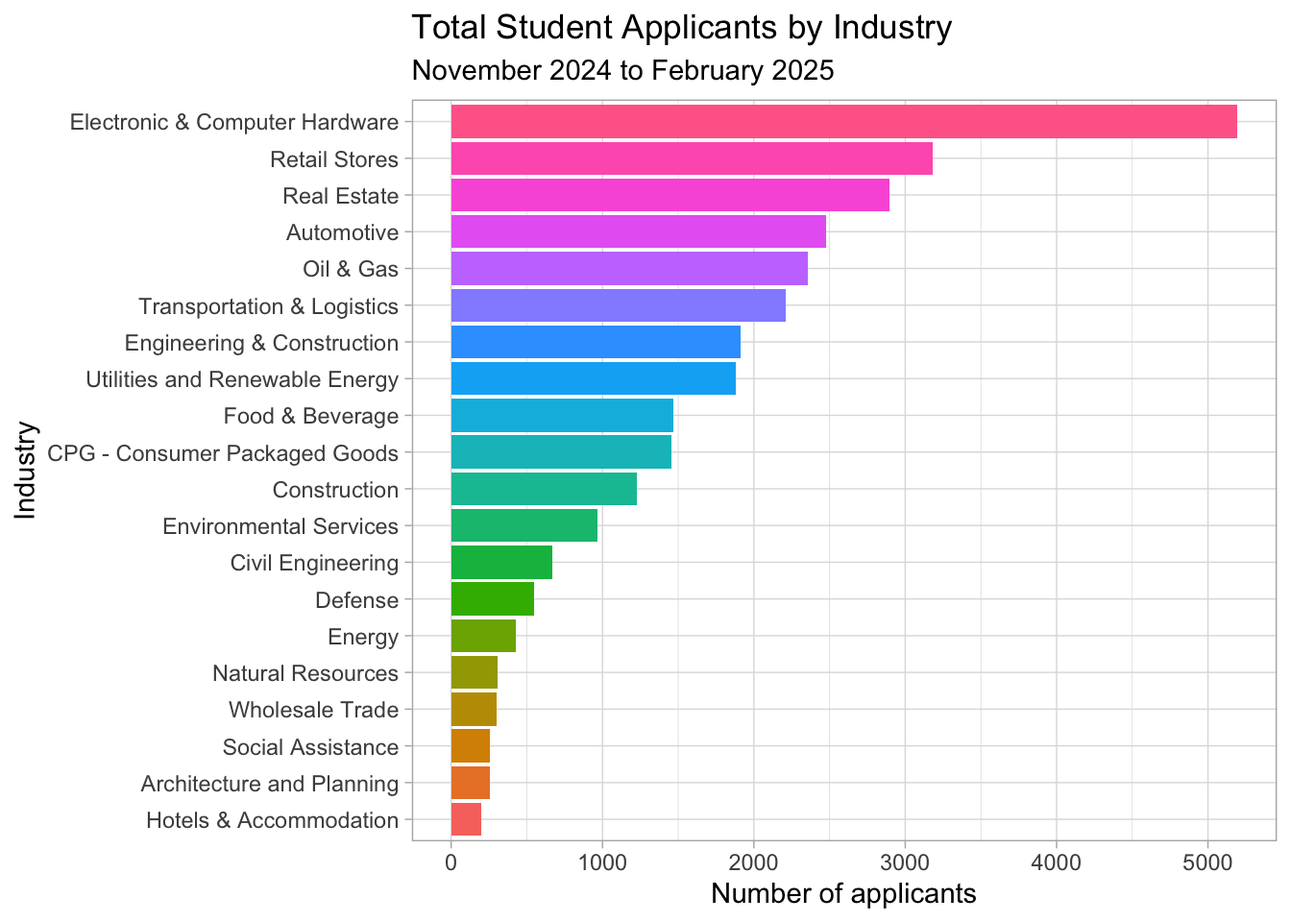
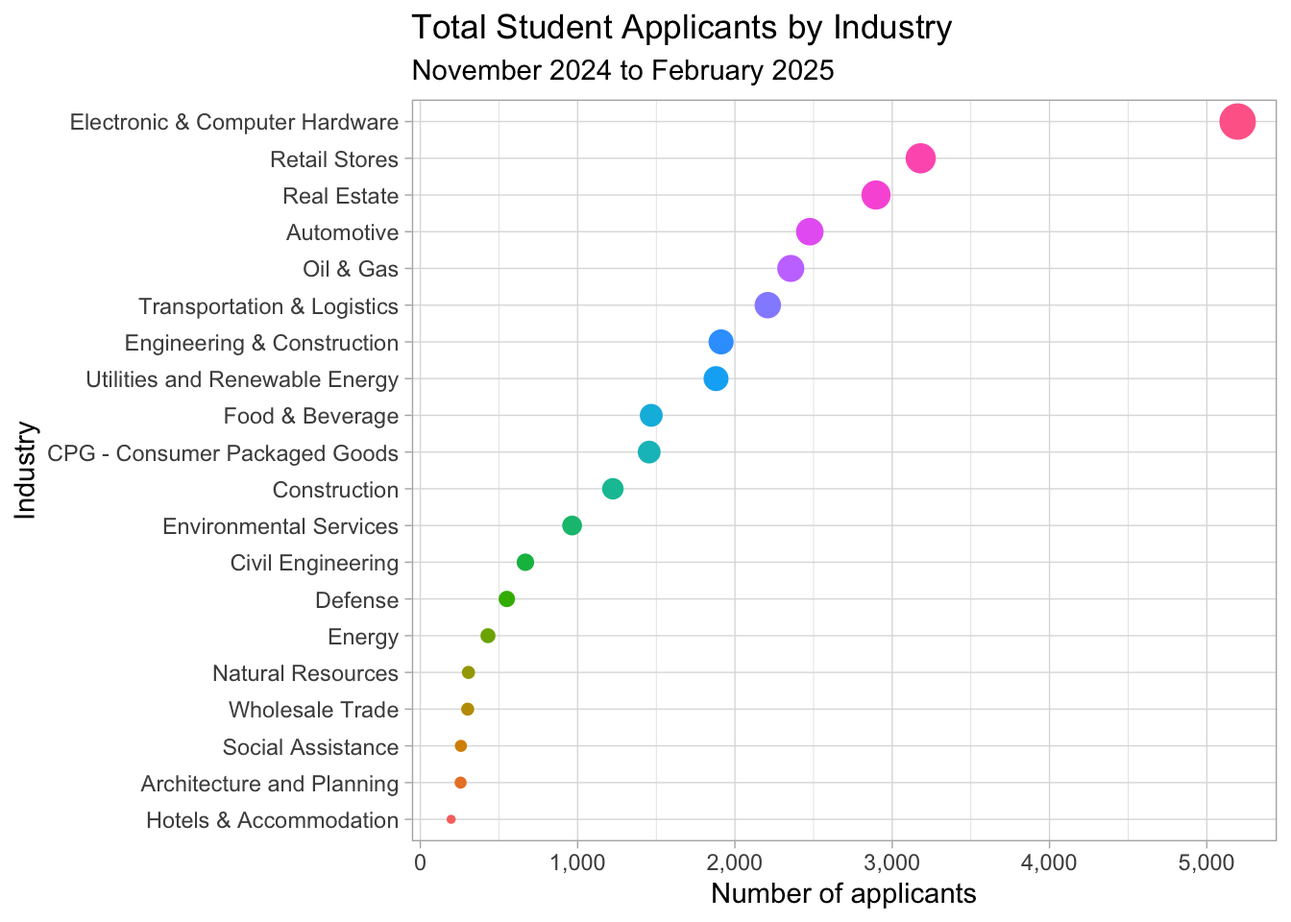
more edits

diff --git a/index.html b/index.html
@@ -7,7 +7,7 @@
 <meta name="viewport" content="width=device-width, initial-scale=1.0, user-scalable=yes">
 
 
-<title>LTarin portfolio</title>
+<title>Letty Tarin</title>
 <style>
 code{white-space: pre-wrap;}
 span.smallcaps{font-variant: small-caps;}
@@ -82,6 +82,7 @@ pre > code.sourceCode > span > a:first-child::before { text-decoration: underlin
   <li><a href="#overview" id="toc-overview" class="nav-link active" data-scroll-target="#overview">Overview</a>
   <ul class="collapse">
   <li><a href="#march-2024" id="toc-march-2024" class="nav-link" data-scroll-target="#march-2024">March 2024</a></li>
+  <li><a href="#applicants-by-industry" id="toc-applicants-by-industry" class="nav-link" data-scroll-target="#applicants-by-industry">Applicants by Industry</a></li>
   <li><a href="#employer-industries" id="toc-employer-industries" class="nav-link" data-scroll-target="#employer-industries">Employer Industries</a></li>
   <li><a href="#applications-2021-2024" id="toc-applications-2021-2024" class="nav-link" data-scroll-target="#applications-2021-2024">Applications 2021-2024</a></li>
   </ul></li>
@@ -92,7 +93,7 @@ pre > code.sourceCode > span > a:first-child::before { text-decoration: underlin
 
 <header id="title-block-header" class="quarto-title-block default">
 <div class="quarto-title">
-<h1 class="title">LTarin portfolio</h1>
+<h1 class="title">Letty Tarin</h1>
 </div>
 
 
@@ -109,63 +110,34 @@ pre > code.sourceCode > span > a:first-child::before { text-decoration: underlin
 </header>
 
 
-<div class="cell">
-<div class="sourceCode cell-code" id="cb1"><pre class="sourceCode r code-with-copy"><code class="sourceCode r"><span id="cb1-1"><a href="#cb1-1" aria-hidden="true" tabindex="-1"></a><span class="fu">library</span>(tidyverse)</span></code><button title="Copy to Clipboard" class="code-copy-button"><i class="bi"></i></button></pre></div>
-<div class="cell-output cell-output-stderr">
-<pre><code>── Attaching core tidyverse packages ──────────────────────── tidyverse 2.0.0 ──
-✔ dplyr     1.1.4     ✔ readr     2.1.5
-✔ forcats   1.0.0     ✔ stringr   1.5.1
-✔ ggplot2   3.5.2     ✔ tibble    3.2.1
-✔ lubridate 1.9.4     ✔ tidyr     1.3.1
-✔ purrr     1.0.4     
-── Conflicts ────────────────────────────────────────── tidyverse_conflicts() ──
-✖ dplyr::filter() masks stats::filter()
-✖ dplyr::lag()    masks stats::lag()
-ℹ Use the conflicted package (&lt;http://conflicted.r-lib.org/&gt;) to force all conflicts to become errors</code></pre>
-</div>
-<div class="sourceCode cell-code" id="cb3"><pre class="sourceCode r code-with-copy"><code class="sourceCode r"><span id="cb3-1"><a href="#cb3-1" aria-hidden="true" tabindex="-1"></a><span class="fu">library</span>(scales)</span></code><button title="Copy to Clipboard" class="code-copy-button"><i class="bi"></i></button></pre></div>
-<div class="cell-output cell-output-stderr">
-<pre><code>
-Attaching package: 'scales'
-
-The following object is masked from 'package:purrr':
-
-    discard
-
-The following object is masked from 'package:readr':
-
-    col_factor</code></pre>
-</div>
-<div class="sourceCode cell-code" id="cb5"><pre class="sourceCode r code-with-copy"><code class="sourceCode r"><span id="cb5-1"><a href="#cb5-1" aria-hidden="true" tabindex="-1"></a><span class="fu">theme_set</span>(<span class="fu">theme_light</span>())</span></code><button title="Copy to Clipboard" class="code-copy-button"><i class="bi"></i></button></pre></div>
-</div>
 <section id="overview" class="level2">
 <h2 class="anchored" data-anchor-id="overview">Overview</h2>
 <p>Below are a few samples of analysis I’ve completed. All analysis was done in the RStudio IDE. Click the <strong>Code</strong> button above the figure to view the code used to create each graph.</p>
 <section id="march-2024" class="level3">
 <h3 class="anchored" data-anchor-id="march-2024">March 2024</h3>
-<p>This analysis was to explore the top industries and applicants in March 2024. The first graph is a visualization of applicants by school year, including advanced degrees and alumni. The second graph is visualizes the total applicants by gender.</p>
+<p>This analysis was to explore the top industries and applicants in March 2024. The first graph is a visualization of applicants by school year, including advanced degrees and alumni. The second graph visualizes the total applicants by gender.</p>
 <div class="cell" data-cap-location="margin">
 <details class="code-fold">
 <summary>Code</summary>
-<div class="sourceCode cell-code" id="cb6" data-cap-location="margin"><pre class="sourceCode r code-with-copy"><code class="sourceCode r"><span id="cb6-1"><a href="#cb6-1" aria-hidden="true" tabindex="-1"></a>sy_longer <span class="ot">&lt;-</span> march_school_year <span class="sc">|&gt;</span> </span>
-<span id="cb6-2"><a href="#cb6-2" aria-hidden="true" tabindex="-1"></a>  <span class="fu">pivot_longer</span>(</span>
-<span id="cb6-3"><a href="#cb6-3" aria-hidden="true" tabindex="-1"></a>    <span class="at">cols =</span> alumni<span class="sc">:</span>sophomore,</span>
-<span id="cb6-4"><a href="#cb6-4" aria-hidden="true" tabindex="-1"></a>    <span class="at">names_to =</span> <span class="st">"school_year"</span>,</span>
-<span id="cb6-5"><a href="#cb6-5" aria-hidden="true" tabindex="-1"></a>    <span class="at">values_to =</span> <span class="st">"applicants"</span>,</span>
-<span id="cb6-6"><a href="#cb6-6" aria-hidden="true" tabindex="-1"></a>    <span class="at">values_drop_na =</span> <span class="cn">TRUE</span></span>
-<span id="cb6-7"><a href="#cb6-7" aria-hidden="true" tabindex="-1"></a>  )</span>
-<span id="cb6-8"><a href="#cb6-8" aria-hidden="true" tabindex="-1"></a></span>
-<span id="cb6-9"><a href="#cb6-9" aria-hidden="true" tabindex="-1"></a>sy_longer <span class="sc">|&gt;</span> </span>
-<span id="cb6-10"><a href="#cb6-10" aria-hidden="true" tabindex="-1"></a>  <span class="fu">mutate</span>(<span class="at">school_year =</span> school_year <span class="sc">|&gt;</span> <span class="fu">fct_infreq</span>() <span class="sc">|&gt;</span> <span class="fu">fct_rev</span>()) <span class="sc">|&gt;</span> </span>
-<span id="cb6-11"><a href="#cb6-11" aria-hidden="true" tabindex="-1"></a>  <span class="fu">ggplot</span>(<span class="fu">aes</span>(school_year, <span class="at">fill =</span> school_year)) <span class="sc">+</span></span>
-<span id="cb6-12"><a href="#cb6-12" aria-hidden="true" tabindex="-1"></a>  <span class="fu">geom_bar</span>(<span class="at">show.legend =</span> <span class="cn">FALSE</span>)<span class="sc">+</span></span>
-<span id="cb6-13"><a href="#cb6-13" aria-hidden="true" tabindex="-1"></a>  <span class="fu">scale_color_brewer</span>(<span class="at">palette =</span> <span class="st">"Set1"</span>)<span class="sc">+</span></span>
-<span id="cb6-14"><a href="#cb6-14" aria-hidden="true" tabindex="-1"></a>  <span class="fu">labs</span>(</span>
-<span id="cb6-15"><a href="#cb6-15" aria-hidden="true" tabindex="-1"></a>    <span class="at">x =</span> <span class="st">""</span>,</span>
-<span id="cb6-16"><a href="#cb6-16" aria-hidden="true" tabindex="-1"></a>    <span class="at">y =</span> <span class="st">""</span>,</span>
-<span id="cb6-17"><a href="#cb6-17" aria-hidden="true" tabindex="-1"></a>    <span class="at">title =</span> <span class="st">"Number of Applicants by School Year"</span>,</span>
-<span id="cb6-18"><a href="#cb6-18" aria-hidden="true" tabindex="-1"></a>    <span class="at">subtitle =</span> <span class="st">"March 2024"</span></span>
-<span id="cb6-19"><a href="#cb6-19" aria-hidden="true" tabindex="-1"></a>  )</span></code><button title="Copy to Clipboard" class="code-copy-button"><i class="bi"></i></button></pre></div>
+<div class="sourceCode cell-code" id="cb1" data-cap-location="margin"><pre class="sourceCode r code-with-copy"><code class="sourceCode r"><span id="cb1-1"><a href="#cb1-1" aria-hidden="true" tabindex="-1"></a>sy_longer <span class="ot">&lt;-</span> march_school_year <span class="sc">|&gt;</span> </span>
+<span id="cb1-2"><a href="#cb1-2" aria-hidden="true" tabindex="-1"></a>  <span class="fu">pivot_longer</span>(</span>
+<span id="cb1-3"><a href="#cb1-3" aria-hidden="true" tabindex="-1"></a>    <span class="at">cols =</span> alumni<span class="sc">:</span>sophomore,</span>
+<span id="cb1-4"><a href="#cb1-4" aria-hidden="true" tabindex="-1"></a>    <span class="at">names_to =</span> <span class="st">"school_year"</span>,</span>
+<span id="cb1-5"><a href="#cb1-5" aria-hidden="true" tabindex="-1"></a>    <span class="at">values_to =</span> <span class="st">"applicants"</span>,</span>
+<span id="cb1-6"><a href="#cb1-6" aria-hidden="true" tabindex="-1"></a>    <span class="at">values_drop_na =</span> <span class="cn">TRUE</span></span>
+<span id="cb1-7"><a href="#cb1-7" aria-hidden="true" tabindex="-1"></a>  )</span>
+<span id="cb1-8"><a href="#cb1-8" aria-hidden="true" tabindex="-1"></a></span>
+<span id="cb1-9"><a href="#cb1-9" aria-hidden="true" tabindex="-1"></a>sy_longer <span class="sc">|&gt;</span> </span>
+<span id="cb1-10"><a href="#cb1-10" aria-hidden="true" tabindex="-1"></a>  <span class="fu">mutate</span>(<span class="at">school_year =</span> school_year <span class="sc">|&gt;</span> <span class="fu">fct_infreq</span>() <span class="sc">|&gt;</span> <span class="fu">fct_rev</span>()) <span class="sc">|&gt;</span> </span>
+<span id="cb1-11"><a href="#cb1-11" aria-hidden="true" tabindex="-1"></a>  <span class="fu">ggplot</span>(<span class="fu">aes</span>(school_year, <span class="at">fill =</span> school_year)) <span class="sc">+</span></span>
+<span id="cb1-12"><a href="#cb1-12" aria-hidden="true" tabindex="-1"></a>  <span class="fu">geom_bar</span>(<span class="at">show.legend =</span> <span class="cn">FALSE</span>)<span class="sc">+</span></span>
+<span id="cb1-13"><a href="#cb1-13" aria-hidden="true" tabindex="-1"></a>  <span class="fu">scale_color_brewer</span>(<span class="at">palette =</span> <span class="st">"Set1"</span>)<span class="sc">+</span></span>
+<span id="cb1-14"><a href="#cb1-14" aria-hidden="true" tabindex="-1"></a>  <span class="fu">labs</span>(</span>
+<span id="cb1-15"><a href="#cb1-15" aria-hidden="true" tabindex="-1"></a>    <span class="at">x =</span> <span class="st">""</span>,</span>
+<span id="cb1-16"><a href="#cb1-16" aria-hidden="true" tabindex="-1"></a>    <span class="at">y =</span> <span class="st">""</span>,</span>
+<span id="cb1-17"><a href="#cb1-17" aria-hidden="true" tabindex="-1"></a>    <span class="at">title =</span> <span class="st">"Number of Applicants by School Year"</span>,</span>
+<span id="cb1-18"><a href="#cb1-18" aria-hidden="true" tabindex="-1"></a>    <span class="at">subtitle =</span> <span class="st">"March 2024"</span></span>
+<span id="cb1-19"><a href="#cb1-19" aria-hidden="true" tabindex="-1"></a>  )</span></code><button title="Copy to Clipboard" class="code-copy-button"><i class="bi"></i></button></pre></div>
 </details>
 <div class="cell-output-display">
 <div>
@@ -176,25 +148,25 @@ The following object is masked from 'package:readr':
 </div>
 <details class="code-fold">
 <summary>Code</summary>
-<div class="sourceCode cell-code" id="cb7" data-cap-location="margin"><pre class="sourceCode r code-with-copy"><code class="sourceCode r"><span id="cb7-1"><a href="#cb7-1" aria-hidden="true" tabindex="-1"></a>march_longer <span class="ot">&lt;-</span> march_gender <span class="sc">|&gt;</span> </span>
-<span id="cb7-2"><a href="#cb7-2" aria-hidden="true" tabindex="-1"></a>  <span class="fu">pivot_longer</span>(</span>
-<span id="cb7-3"><a href="#cb7-3" aria-hidden="true" tabindex="-1"></a>    <span class="at">cols =</span> female<span class="sc">:</span>male,</span>
-<span id="cb7-4"><a href="#cb7-4" aria-hidden="true" tabindex="-1"></a>    <span class="at">names_to =</span> <span class="st">"gender"</span>,</span>
-<span id="cb7-5"><a href="#cb7-5" aria-hidden="true" tabindex="-1"></a>    <span class="at">values_to =</span> <span class="st">"applicants"</span>,</span>
-<span id="cb7-6"><a href="#cb7-6" aria-hidden="true" tabindex="-1"></a>    <span class="at">values_drop_na =</span> <span class="cn">TRUE</span></span>
-<span id="cb7-7"><a href="#cb7-7" aria-hidden="true" tabindex="-1"></a>  )</span>
-<span id="cb7-8"><a href="#cb7-8" aria-hidden="true" tabindex="-1"></a></span>
-<span id="cb7-9"><a href="#cb7-9" aria-hidden="true" tabindex="-1"></a>march_longer <span class="sc">|&gt;</span> </span>
-<span id="cb7-10"><a href="#cb7-10" aria-hidden="true" tabindex="-1"></a>  <span class="fu">drop_na</span>(job_type) <span class="sc">|&gt;</span> </span>
-<span id="cb7-11"><a href="#cb7-11" aria-hidden="true" tabindex="-1"></a>  <span class="fu">mutate</span>(<span class="at">job_type =</span> job_type <span class="sc">|&gt;</span> <span class="fu">fct_rev</span>()) <span class="sc">|&gt;</span> </span>
-<span id="cb7-12"><a href="#cb7-12" aria-hidden="true" tabindex="-1"></a>  <span class="fu">ggplot</span>(<span class="fu">aes</span>(job_type, <span class="at">fill =</span> gender)) <span class="sc">+</span></span>
-<span id="cb7-13"><a href="#cb7-13" aria-hidden="true" tabindex="-1"></a>  <span class="fu">geom_bar</span>(<span class="at">position =</span> <span class="st">"dodge"</span>)<span class="sc">+</span></span>
-<span id="cb7-14"><a href="#cb7-14" aria-hidden="true" tabindex="-1"></a>  <span class="fu">scale_color_brewer</span>(<span class="at">palette =</span> <span class="st">"Set1"</span>)<span class="sc">+</span></span>
-<span id="cb7-15"><a href="#cb7-15" aria-hidden="true" tabindex="-1"></a>  <span class="fu">labs</span>(<span class="at">x =</span> <span class="st">""</span>,</span>
-<span id="cb7-16"><a href="#cb7-16" aria-hidden="true" tabindex="-1"></a>       <span class="at">y =</span> <span class="st">""</span>,</span>
-<span id="cb7-17"><a href="#cb7-17" aria-hidden="true" tabindex="-1"></a>       <span class="at">fill =</span> <span class="st">"Gender"</span>,</span>
-<span id="cb7-18"><a href="#cb7-18" aria-hidden="true" tabindex="-1"></a>       <span class="at">title =</span> <span class="st">"Applicants by Job Type and Gender"</span>, </span>
-<span id="cb7-19"><a href="#cb7-19" aria-hidden="true" tabindex="-1"></a>       <span class="at">subtitle =</span> <span class="st">"March 2024"</span>)</span></code><button title="Copy to Clipboard" class="code-copy-button"><i class="bi"></i></button></pre></div>
+<div class="sourceCode cell-code" id="cb2" data-cap-location="margin"><pre class="sourceCode r code-with-copy"><code class="sourceCode r"><span id="cb2-1"><a href="#cb2-1" aria-hidden="true" tabindex="-1"></a>march_longer <span class="ot">&lt;-</span> march_gender <span class="sc">|&gt;</span> </span>
+<span id="cb2-2"><a href="#cb2-2" aria-hidden="true" tabindex="-1"></a>  <span class="fu">pivot_longer</span>(</span>
+<span id="cb2-3"><a href="#cb2-3" aria-hidden="true" tabindex="-1"></a>    <span class="at">cols =</span> female<span class="sc">:</span>male,</span>
+<span id="cb2-4"><a href="#cb2-4" aria-hidden="true" tabindex="-1"></a>    <span class="at">names_to =</span> <span class="st">"gender"</span>,</span>
+<span id="cb2-5"><a href="#cb2-5" aria-hidden="true" tabindex="-1"></a>    <span class="at">values_to =</span> <span class="st">"applicants"</span>,</span>
+<span id="cb2-6"><a href="#cb2-6" aria-hidden="true" tabindex="-1"></a>    <span class="at">values_drop_na =</span> <span class="cn">TRUE</span></span>
+<span id="cb2-7"><a href="#cb2-7" aria-hidden="true" tabindex="-1"></a>  )</span>
+<span id="cb2-8"><a href="#cb2-8" aria-hidden="true" tabindex="-1"></a></span>
+<span id="cb2-9"><a href="#cb2-9" aria-hidden="true" tabindex="-1"></a>march_longer <span class="sc">|&gt;</span> </span>
+<span id="cb2-10"><a href="#cb2-10" aria-hidden="true" tabindex="-1"></a>  <span class="fu">drop_na</span>(job_type) <span class="sc">|&gt;</span> </span>
+<span id="cb2-11"><a href="#cb2-11" aria-hidden="true" tabindex="-1"></a>  <span class="fu">mutate</span>(<span class="at">job_type =</span> job_type <span class="sc">|&gt;</span> <span class="fu">fct_rev</span>()) <span class="sc">|&gt;</span> </span>
+<span id="cb2-12"><a href="#cb2-12" aria-hidden="true" tabindex="-1"></a>  <span class="fu">ggplot</span>(<span class="fu">aes</span>(job_type, <span class="at">fill =</span> gender)) <span class="sc">+</span></span>
+<span id="cb2-13"><a href="#cb2-13" aria-hidden="true" tabindex="-1"></a>  <span class="fu">geom_bar</span>(<span class="at">position =</span> <span class="st">"dodge"</span>)<span class="sc">+</span></span>
+<span id="cb2-14"><a href="#cb2-14" aria-hidden="true" tabindex="-1"></a>  <span class="fu">scale_color_brewer</span>(<span class="at">palette =</span> <span class="st">"Set1"</span>)<span class="sc">+</span></span>
+<span id="cb2-15"><a href="#cb2-15" aria-hidden="true" tabindex="-1"></a>  <span class="fu">labs</span>(<span class="at">x =</span> <span class="st">""</span>,</span>
+<span id="cb2-16"><a href="#cb2-16" aria-hidden="true" tabindex="-1"></a>       <span class="at">y =</span> <span class="st">""</span>,</span>
+<span id="cb2-17"><a href="#cb2-17" aria-hidden="true" tabindex="-1"></a>       <span class="at">fill =</span> <span class="st">"Gender"</span>,</span>
+<span id="cb2-18"><a href="#cb2-18" aria-hidden="true" tabindex="-1"></a>       <span class="at">title =</span> <span class="st">"Applicants by Job Type and Gender"</span>, </span>
+<span id="cb2-19"><a href="#cb2-19" aria-hidden="true" tabindex="-1"></a>       <span class="at">subtitle =</span> <span class="st">"March 2024"</span>)</span></code><button title="Copy to Clipboard" class="code-copy-button"><i class="bi"></i></button></pre></div>
 </details>
 <div class="cell-output-display">
 <div>
@@ -204,26 +176,32 @@ The following object is masked from 'package:readr':
 </div>
 </div>
 </div>
+</section>
+<section id="applicants-by-industry" class="level3">
+<h3 class="anchored" data-anchor-id="applicants-by-industry">Applicants by Industry</h3>
+<p>This was completed to get a snapshot of engagement during the end of the fall semester.</p>
 <div class="cell">
 <details class="code-fold">
 <summary>Code</summary>
-<div class="sourceCode cell-code" id="cb8"><pre class="sourceCode r code-with-copy"><code class="sourceCode r"><span id="cb8-1"><a href="#cb8-1" aria-hidden="true" tabindex="-1"></a>applications <span class="ot">&lt;-</span> my_postings </span>
-<span id="cb8-2"><a href="#cb8-2" aria-hidden="true" tabindex="-1"></a></span>
-<span id="cb8-3"><a href="#cb8-3" aria-hidden="true" tabindex="-1"></a>applications <span class="sc">|&gt;</span> </span>
-<span id="cb8-4"><a href="#cb8-4" aria-hidden="true" tabindex="-1"></a><span class="fu">group_by</span>(industry) <span class="sc">|&gt;</span> </span>
-<span id="cb8-5"><a href="#cb8-5" aria-hidden="true" tabindex="-1"></a>  <span class="fu">summarize</span>(<span class="at">total =</span> <span class="fu">sum</span>(applications_count)) <span class="sc">|&gt;</span> </span>
-<span id="cb8-6"><a href="#cb8-6" aria-hidden="true" tabindex="-1"></a>  <span class="fu">arrange</span>(<span class="fu">desc</span>(total)) <span class="sc">%&gt;%</span> </span>
-<span id="cb8-7"><a href="#cb8-7" aria-hidden="true" tabindex="-1"></a>  <span class="fu">slice_head</span>(<span class="at">n =</span> <span class="dv">20</span>) <span class="sc">%&gt;%</span> </span>
-<span id="cb8-8"><a href="#cb8-8" aria-hidden="true" tabindex="-1"></a>  <span class="fu">ungroup</span>() <span class="sc">%&gt;%</span> </span>
-<span id="cb8-9"><a href="#cb8-9" aria-hidden="true" tabindex="-1"></a>  <span class="fu">mutate</span>(<span class="at">industry =</span> <span class="fu">fct_reorder</span>(industry, total)) <span class="sc">%&gt;%</span> </span>
-<span id="cb8-10"><a href="#cb8-10" aria-hidden="true" tabindex="-1"></a><span class="fu">ggplot</span>(<span class="fu">aes</span>(industry, total, <span class="at">fill =</span> industry)) <span class="sc">+</span></span>
-<span id="cb8-11"><a href="#cb8-11" aria-hidden="true" tabindex="-1"></a>  <span class="fu">geom_col</span>() <span class="sc">+</span></span>
-<span id="cb8-12"><a href="#cb8-12" aria-hidden="true" tabindex="-1"></a>  <span class="fu">coord_flip</span>() <span class="sc">+</span></span>
-<span id="cb8-13"><a href="#cb8-13" aria-hidden="true" tabindex="-1"></a>  <span class="fu">theme</span>(<span class="at">legend.position =</span> <span class="st">"none"</span>) <span class="sc">+</span></span>
-<span id="cb8-14"><a href="#cb8-14" aria-hidden="true" tabindex="-1"></a>  <span class="fu">labs</span>(<span class="at">x =</span> <span class="st">"Industry"</span>,</span>
-<span id="cb8-15"><a href="#cb8-15" aria-hidden="true" tabindex="-1"></a>       <span class="at">y =</span> <span class="st">"Number of applicants"</span>,</span>
-<span id="cb8-16"><a href="#cb8-16" aria-hidden="true" tabindex="-1"></a>       <span class="at">title =</span> <span class="st">"Total Student Applicants by Industry"</span>,</span>
-<span id="cb8-17"><a href="#cb8-17" aria-hidden="true" tabindex="-1"></a>       <span class="at">subtitle =</span> <span class="st">"November 2024 to February 2025"</span>)</span></code><button title="Copy to Clipboard" class="code-copy-button"><i class="bi"></i></button></pre></div>
+<div class="sourceCode cell-code" id="cb3"><pre class="sourceCode r code-with-copy"><code class="sourceCode r"><span id="cb3-1"><a href="#cb3-1" aria-hidden="true" tabindex="-1"></a>applications <span class="ot">&lt;-</span> my_postings </span>
+<span id="cb3-2"><a href="#cb3-2" aria-hidden="true" tabindex="-1"></a></span>
+<span id="cb3-3"><a href="#cb3-3" aria-hidden="true" tabindex="-1"></a></span>
+<span id="cb3-4"><a href="#cb3-4" aria-hidden="true" tabindex="-1"></a>applications <span class="sc">|&gt;</span></span>
+<span id="cb3-5"><a href="#cb3-5" aria-hidden="true" tabindex="-1"></a><span class="fu">group_by</span>(industry) <span class="sc">|&gt;</span> </span>
+<span id="cb3-6"><a href="#cb3-6" aria-hidden="true" tabindex="-1"></a>  <span class="fu">summarize</span>(<span class="at">total =</span> <span class="fu">sum</span>(applications_count)) <span class="sc">|&gt;</span> </span>
+<span id="cb3-7"><a href="#cb3-7" aria-hidden="true" tabindex="-1"></a>  <span class="fu">arrange</span>(<span class="fu">desc</span>(total)) <span class="sc">%&gt;%</span> </span>
+<span id="cb3-8"><a href="#cb3-8" aria-hidden="true" tabindex="-1"></a>  <span class="fu">slice_head</span>(<span class="at">n =</span> <span class="dv">20</span>) <span class="sc">%&gt;%</span> </span>
+<span id="cb3-9"><a href="#cb3-9" aria-hidden="true" tabindex="-1"></a>  <span class="fu">ungroup</span>() <span class="sc">%&gt;%</span> </span>
+<span id="cb3-10"><a href="#cb3-10" aria-hidden="true" tabindex="-1"></a>  <span class="fu">mutate</span>(<span class="at">industry =</span> <span class="fu">fct_reorder</span>(industry, total)) <span class="sc">%&gt;%</span> </span>
+<span id="cb3-11"><a href="#cb3-11" aria-hidden="true" tabindex="-1"></a>  <span class="fu">ggplot</span>(<span class="fu">aes</span>(industry, total, <span class="at">color =</span> industry, <span class="at">size =</span> total)) <span class="sc">+</span></span>
+<span id="cb3-12"><a href="#cb3-12" aria-hidden="true" tabindex="-1"></a>  <span class="fu">geom_point</span>() <span class="sc">+</span></span>
+<span id="cb3-13"><a href="#cb3-13" aria-hidden="true" tabindex="-1"></a>  <span class="fu">coord_flip</span>() <span class="sc">+</span></span>
+<span id="cb3-14"><a href="#cb3-14" aria-hidden="true" tabindex="-1"></a>  <span class="fu">scale_y_continuous</span>(<span class="at">labels =</span> comma) <span class="sc">+</span></span>
+<span id="cb3-15"><a href="#cb3-15" aria-hidden="true" tabindex="-1"></a>  <span class="fu">theme</span>(<span class="at">legend.position =</span> <span class="st">"none"</span>) <span class="sc">+</span></span>
+<span id="cb3-16"><a href="#cb3-16" aria-hidden="true" tabindex="-1"></a>  <span class="fu">labs</span>(<span class="at">x =</span> <span class="st">"Industry"</span>,</span>
+<span id="cb3-17"><a href="#cb3-17" aria-hidden="true" tabindex="-1"></a>       <span class="at">y =</span> <span class="st">"Number of applicants"</span>,</span>
+<span id="cb3-18"><a href="#cb3-18" aria-hidden="true" tabindex="-1"></a>       <span class="at">title =</span> <span class="st">"Total Student Applicants by Industry"</span>,</span>
+<span id="cb3-19"><a href="#cb3-19" aria-hidden="true" tabindex="-1"></a>       <span class="at">subtitle =</span> <span class="st">"November 2024 to February 2025"</span>) </span></code><button title="Copy to Clipboard" class="code-copy-button"><i class="bi"></i></button></pre></div>
 </details>
 <div class="cell-output-display">
 <div>
@@ -233,28 +211,27 @@ The following object is masked from 'package:readr':
 </div>
 </div>
 </div>
+</section>
+<section id="employer-industries" class="level3">
+<h3 class="anchored" data-anchor-id="employer-industries">Employer Industries</h3>
+<p>This graph shows employer engagement by industry during the end of the fall semester. It reflects the number of job and internship postings by industry, versus student applications by industry as above.</p>
 <div class="cell">
 <details class="code-fold">
 <summary>Code</summary>
-<div class="sourceCode cell-code" id="cb9"><pre class="sourceCode r code-with-copy"><code class="sourceCode r"><span id="cb9-1"><a href="#cb9-1" aria-hidden="true" tabindex="-1"></a>applications <span class="ot">&lt;-</span> my_postings </span>
-<span id="cb9-2"><a href="#cb9-2" aria-hidden="true" tabindex="-1"></a></span>
-<span id="cb9-3"><a href="#cb9-3" aria-hidden="true" tabindex="-1"></a></span>
-<span id="cb9-4"><a href="#cb9-4" aria-hidden="true" tabindex="-1"></a>applications <span class="sc">|&gt;</span></span>
-<span id="cb9-5"><a href="#cb9-5" aria-hidden="true" tabindex="-1"></a><span class="fu">group_by</span>(industry) <span class="sc">|&gt;</span> </span>
-<span id="cb9-6"><a href="#cb9-6" aria-hidden="true" tabindex="-1"></a>  <span class="fu">summarize</span>(<span class="at">total =</span> <span class="fu">sum</span>(applications_count)) <span class="sc">|&gt;</span> </span>
-<span id="cb9-7"><a href="#cb9-7" aria-hidden="true" tabindex="-1"></a>  <span class="fu">arrange</span>(<span class="fu">desc</span>(total)) <span class="sc">%&gt;%</span> </span>
-<span id="cb9-8"><a href="#cb9-8" aria-hidden="true" tabindex="-1"></a>  <span class="fu">slice_head</span>(<span class="at">n =</span> <span class="dv">20</span>) <span class="sc">%&gt;%</span> </span>
-<span id="cb9-9"><a href="#cb9-9" aria-hidden="true" tabindex="-1"></a>  <span class="fu">ungroup</span>() <span class="sc">%&gt;%</span> </span>
-<span id="cb9-10"><a href="#cb9-10" aria-hidden="true" tabindex="-1"></a>  <span class="fu">mutate</span>(<span class="at">industry =</span> <span class="fu">fct_reorder</span>(industry, total)) <span class="sc">%&gt;%</span> </span>
-<span id="cb9-11"><a href="#cb9-11" aria-hidden="true" tabindex="-1"></a>  <span class="fu">ggplot</span>(<span class="fu">aes</span>(industry, total, <span class="at">color =</span> industry, <span class="at">size =</span> total)) <span class="sc">+</span></span>
-<span id="cb9-12"><a href="#cb9-12" aria-hidden="true" tabindex="-1"></a>  <span class="fu">geom_point</span>() <span class="sc">+</span></span>
-<span id="cb9-13"><a href="#cb9-13" aria-hidden="true" tabindex="-1"></a>  <span class="fu">coord_flip</span>() <span class="sc">+</span></span>
-<span id="cb9-14"><a href="#cb9-14" aria-hidden="true" tabindex="-1"></a>  <span class="fu">scale_y_continuous</span>(<span class="at">labels =</span> comma) <span class="sc">+</span></span>
-<span id="cb9-15"><a href="#cb9-15" aria-hidden="true" tabindex="-1"></a>  <span class="fu">theme</span>(<span class="at">legend.position =</span> <span class="st">"none"</span>) <span class="sc">+</span></span>
-<span id="cb9-16"><a href="#cb9-16" aria-hidden="true" tabindex="-1"></a>  <span class="fu">labs</span>(<span class="at">x =</span> <span class="st">"Industry"</span>,</span>
-<span id="cb9-17"><a href="#cb9-17" aria-hidden="true" tabindex="-1"></a>       <span class="at">y =</span> <span class="st">"Number of applicants"</span>,</span>
-<span id="cb9-18"><a href="#cb9-18" aria-hidden="true" tabindex="-1"></a>       <span class="at">title =</span> <span class="st">"Total Student Applicants by Industry"</span>,</span>
-<span id="cb9-19"><a href="#cb9-19" aria-hidden="true" tabindex="-1"></a>       <span class="at">subtitle =</span> <span class="st">"November 2024 to February 2025"</span>) </span></code><button title="Copy to Clipboard" class="code-copy-button"><i class="bi"></i></button></pre></div>
+<div class="sourceCode cell-code" id="cb4"><pre class="sourceCode r code-with-copy"><code class="sourceCode r"><span id="cb4-1"><a href="#cb4-1" aria-hidden="true" tabindex="-1"></a>top_industries <span class="ot">&lt;-</span> my_postings</span>
+<span id="cb4-2"><a href="#cb4-2" aria-hidden="true" tabindex="-1"></a></span>
+<span id="cb4-3"><a href="#cb4-3" aria-hidden="true" tabindex="-1"></a>top_industries <span class="sc">%&gt;%</span> </span>
+<span id="cb4-4"><a href="#cb4-4" aria-hidden="true" tabindex="-1"></a> <span class="fu">count</span>(industry, <span class="at">sort =</span> <span class="cn">TRUE</span>) <span class="sc">%&gt;%</span> </span>
+<span id="cb4-5"><a href="#cb4-5" aria-hidden="true" tabindex="-1"></a>  <span class="fu">slice_head</span>(<span class="at">n =</span> <span class="dv">20</span>) <span class="sc">|&gt;</span> </span>
+<span id="cb4-6"><a href="#cb4-6" aria-hidden="true" tabindex="-1"></a>  <span class="fu">mutate</span>(<span class="at">industry =</span> <span class="fu">fct_reorder</span>(industry, n)) <span class="sc">|&gt;</span> </span>
+<span id="cb4-7"><a href="#cb4-7" aria-hidden="true" tabindex="-1"></a>  <span class="fu">ggplot</span>(<span class="fu">aes</span>(industry, n, <span class="at">fill =</span> industry))<span class="sc">+</span></span>
+<span id="cb4-8"><a href="#cb4-8" aria-hidden="true" tabindex="-1"></a>  <span class="fu">geom_col</span>()<span class="sc">+</span></span>
+<span id="cb4-9"><a href="#cb4-9" aria-hidden="true" tabindex="-1"></a>  <span class="fu">coord_flip</span>()<span class="sc">+</span></span>
+<span id="cb4-10"><a href="#cb4-10" aria-hidden="true" tabindex="-1"></a>  <span class="fu">theme</span>(<span class="at">legend.position =</span> <span class="st">"none"</span>)<span class="sc">+</span></span>
+<span id="cb4-11"><a href="#cb4-11" aria-hidden="true" tabindex="-1"></a>  <span class="fu">labs</span>(<span class="at">title =</span> <span class="st">"Top Employer Industries"</span>,</span>
+<span id="cb4-12"><a href="#cb4-12" aria-hidden="true" tabindex="-1"></a>       <span class="at">subtitle =</span> <span class="st">"November 2024 to February 2025"</span>, </span>
+<span id="cb4-13"><a href="#cb4-13" aria-hidden="true" tabindex="-1"></a>       <span class="at">x =</span> <span class="st">"Industry"</span>,</span>
+<span id="cb4-14"><a href="#cb4-14" aria-hidden="true" tabindex="-1"></a>       <span class="at">y =</span> <span class="st">"Postings count"</span>)</span></code><button title="Copy to Clipboard" class="code-copy-button"><i class="bi"></i></button></pre></div>
 </details>
 <div class="cell-output-display">
 <div>
@@ -265,56 +242,27 @@ The following object is masked from 'package:readr':
 </div>
 </div>
 </section>
-<section id="employer-industries" class="level3">
-<h3 class="anchored" data-anchor-id="employer-industries">Employer Industries</h3>
-<div class="cell">
-<details class="code-fold">
-<summary>Code</summary>
-<div class="sourceCode cell-code" id="cb10"><pre class="sourceCode r code-with-copy"><code class="sourceCode r"><span id="cb10-1"><a href="#cb10-1" aria-hidden="true" tabindex="-1"></a>top_industries <span class="ot">&lt;-</span> my_postings</span>
-<span id="cb10-2"><a href="#cb10-2" aria-hidden="true" tabindex="-1"></a></span>
-<span id="cb10-3"><a href="#cb10-3" aria-hidden="true" tabindex="-1"></a>top_industries <span class="sc">%&gt;%</span> </span>
-<span id="cb10-4"><a href="#cb10-4" aria-hidden="true" tabindex="-1"></a> <span class="fu">count</span>(industry, <span class="at">sort =</span> <span class="cn">TRUE</span>) <span class="sc">%&gt;%</span> </span>
-<span id="cb10-5"><a href="#cb10-5" aria-hidden="true" tabindex="-1"></a>  <span class="fu">slice_head</span>(<span class="at">n =</span> <span class="dv">20</span>) <span class="sc">|&gt;</span> </span>
-<span id="cb10-6"><a href="#cb10-6" aria-hidden="true" tabindex="-1"></a>  <span class="fu">mutate</span>(<span class="at">industry =</span> <span class="fu">fct_reorder</span>(industry, n)) <span class="sc">|&gt;</span> </span>
-<span id="cb10-7"><a href="#cb10-7" aria-hidden="true" tabindex="-1"></a>  <span class="fu">ggplot</span>(<span class="fu">aes</span>(industry, n, <span class="at">fill =</span> industry))<span class="sc">+</span></span>
-<span id="cb10-8"><a href="#cb10-8" aria-hidden="true" tabindex="-1"></a>  <span class="fu">geom_col</span>()<span class="sc">+</span></span>
-<span id="cb10-9"><a href="#cb10-9" aria-hidden="true" tabindex="-1"></a>  <span class="fu">coord_flip</span>()<span class="sc">+</span></span>
-<span id="cb10-10"><a href="#cb10-10" aria-hidden="true" tabindex="-1"></a>  <span class="fu">theme</span>(<span class="at">legend.position =</span> <span class="st">"none"</span>)<span class="sc">+</span></span>
-<span id="cb10-11"><a href="#cb10-11" aria-hidden="true" tabindex="-1"></a>  <span class="fu">labs</span>(<span class="at">title =</span> <span class="st">"Top Employer Industries"</span>,</span>
-<span id="cb10-12"><a href="#cb10-12" aria-hidden="true" tabindex="-1"></a>       <span class="at">subtitle =</span> <span class="st">"November 2024 to February 2025"</span>, </span>
-<span id="cb10-13"><a href="#cb10-13" aria-hidden="true" tabindex="-1"></a>       <span class="at">x =</span> <span class="st">"Industry"</span>,</span>
-<span id="cb10-14"><a href="#cb10-14" aria-hidden="true" tabindex="-1"></a>       <span class="at">y =</span> <span class="st">"Postings count"</span>)</span></code><button title="Copy to Clipboard" class="code-copy-button"><i class="bi"></i></button></pre></div>
-</details>
-<div class="cell-output-display">
-<div>
-<figure class="figure">
-<p><img src="index_files/figure-html/unnamed-chunk-7-1.png" class="img-fluid figure-img" width="672"></p>
-</figure>
-</div>
-</div>
-</div>
-</section>
 <section id="applications-2021-2024" class="level3">
 <h3 class="anchored" data-anchor-id="applications-2021-2024">Applications 2021-2024</h3>
 <div class="cell">
 <details class="code-fold">
 <summary>Code</summary>
-<div class="sourceCode cell-code" id="cb11"><pre class="sourceCode r code-with-copy"><code class="sourceCode r"><span id="cb11-1"><a href="#cb11-1" aria-hidden="true" tabindex="-1"></a>five_yrs <span class="sc">%&gt;%</span> </span>
-<span id="cb11-2"><a href="#cb11-2" aria-hidden="true" tabindex="-1"></a>  <span class="fu">filter</span>(year <span class="sc">!=</span> <span class="dv">2025</span> <span class="sc">&amp;</span> <span class="sc">!</span><span class="fu">is.na</span>(year)) <span class="sc">%&gt;%</span> </span>
-<span id="cb11-3"><a href="#cb11-3" aria-hidden="true" tabindex="-1"></a>  <span class="fu">group_by</span>(year) <span class="sc">%&gt;%</span> </span>
-<span id="cb11-4"><a href="#cb11-4" aria-hidden="true" tabindex="-1"></a>  <span class="fu">summarize</span>(<span class="at">total =</span> <span class="fu">sum</span>(applications_count),</span>
-<span id="cb11-5"><a href="#cb11-5" aria-hidden="true" tabindex="-1"></a>            <span class="at">n =</span> <span class="fu">n</span>()) <span class="sc">%&gt;%</span> </span>
-<span id="cb11-6"><a href="#cb11-6" aria-hidden="true" tabindex="-1"></a>  <span class="fu">ggplot</span>(<span class="fu">aes</span>(year,total)) <span class="sc">+</span></span>
-<span id="cb11-7"><a href="#cb11-7" aria-hidden="true" tabindex="-1"></a>  <span class="fu">geom_line</span>() <span class="sc">+</span></span>
-<span id="cb11-8"><a href="#cb11-8" aria-hidden="true" tabindex="-1"></a>  <span class="fu">scale_y_continuous</span>(<span class="at">labels =</span> comma) <span class="sc">+</span></span>
-<span id="cb11-9"><a href="#cb11-9" aria-hidden="true" tabindex="-1"></a>  <span class="fu">labs</span>(<span class="at">x =</span> <span class="st">"Year"</span>,</span>
-<span id="cb11-10"><a href="#cb11-10" aria-hidden="true" tabindex="-1"></a>       <span class="at">y =</span> <span class="st">"Applications"</span>,</span>
-<span id="cb11-11"><a href="#cb11-11" aria-hidden="true" tabindex="-1"></a>       <span class="at">title =</span> <span class="st">"Total Applications from 2021 to 2024"</span>)</span></code><button title="Copy to Clipboard" class="code-copy-button"><i class="bi"></i></button></pre></div>
+<div class="sourceCode cell-code" id="cb5"><pre class="sourceCode r code-with-copy"><code class="sourceCode r"><span id="cb5-1"><a href="#cb5-1" aria-hidden="true" tabindex="-1"></a>five_yrs <span class="sc">%&gt;%</span> </span>
+<span id="cb5-2"><a href="#cb5-2" aria-hidden="true" tabindex="-1"></a>  <span class="fu">filter</span>(year <span class="sc">!=</span> <span class="dv">2025</span> <span class="sc">&amp;</span> <span class="sc">!</span><span class="fu">is.na</span>(year)) <span class="sc">%&gt;%</span> </span>
+<span id="cb5-3"><a href="#cb5-3" aria-hidden="true" tabindex="-1"></a>  <span class="fu">group_by</span>(year) <span class="sc">%&gt;%</span> </span>
+<span id="cb5-4"><a href="#cb5-4" aria-hidden="true" tabindex="-1"></a>  <span class="fu">summarize</span>(<span class="at">total =</span> <span class="fu">sum</span>(applications_count),</span>
+<span id="cb5-5"><a href="#cb5-5" aria-hidden="true" tabindex="-1"></a>            <span class="at">n =</span> <span class="fu">n</span>()) <span class="sc">%&gt;%</span> </span>
+<span id="cb5-6"><a href="#cb5-6" aria-hidden="true" tabindex="-1"></a>  <span class="fu">ggplot</span>(<span class="fu">aes</span>(year,total)) <span class="sc">+</span></span>
+<span id="cb5-7"><a href="#cb5-7" aria-hidden="true" tabindex="-1"></a>  <span class="fu">geom_line</span>() <span class="sc">+</span></span>
+<span id="cb5-8"><a href="#cb5-8" aria-hidden="true" tabindex="-1"></a>  <span class="fu">scale_y_continuous</span>(<span class="at">labels =</span> comma) <span class="sc">+</span></span>
+<span id="cb5-9"><a href="#cb5-9" aria-hidden="true" tabindex="-1"></a>  <span class="fu">labs</span>(<span class="at">x =</span> <span class="st">"Year"</span>,</span>
+<span id="cb5-10"><a href="#cb5-10" aria-hidden="true" tabindex="-1"></a>       <span class="at">y =</span> <span class="st">"Applications"</span>,</span>
+<span id="cb5-11"><a href="#cb5-11" aria-hidden="true" tabindex="-1"></a>       <span class="at">title =</span> <span class="st">"Total Applications from 2021 to 2024"</span>)</span></code><button title="Copy to Clipboard" class="code-copy-button"><i class="bi"></i></button></pre></div>
 </details>
 <div class="cell-output-display">
 <div>
 <figure class="figure">
-<p><img src="index_files/figure-html/unnamed-chunk-8-1.png" class="img-fluid figure-img" width="672"></p>
+<p><img src="index_files/figure-html/unnamed-chunk-7-1.png" class="img-fluid figure-img" width="672"></p>
 </figure>
 </div>
 </div>
